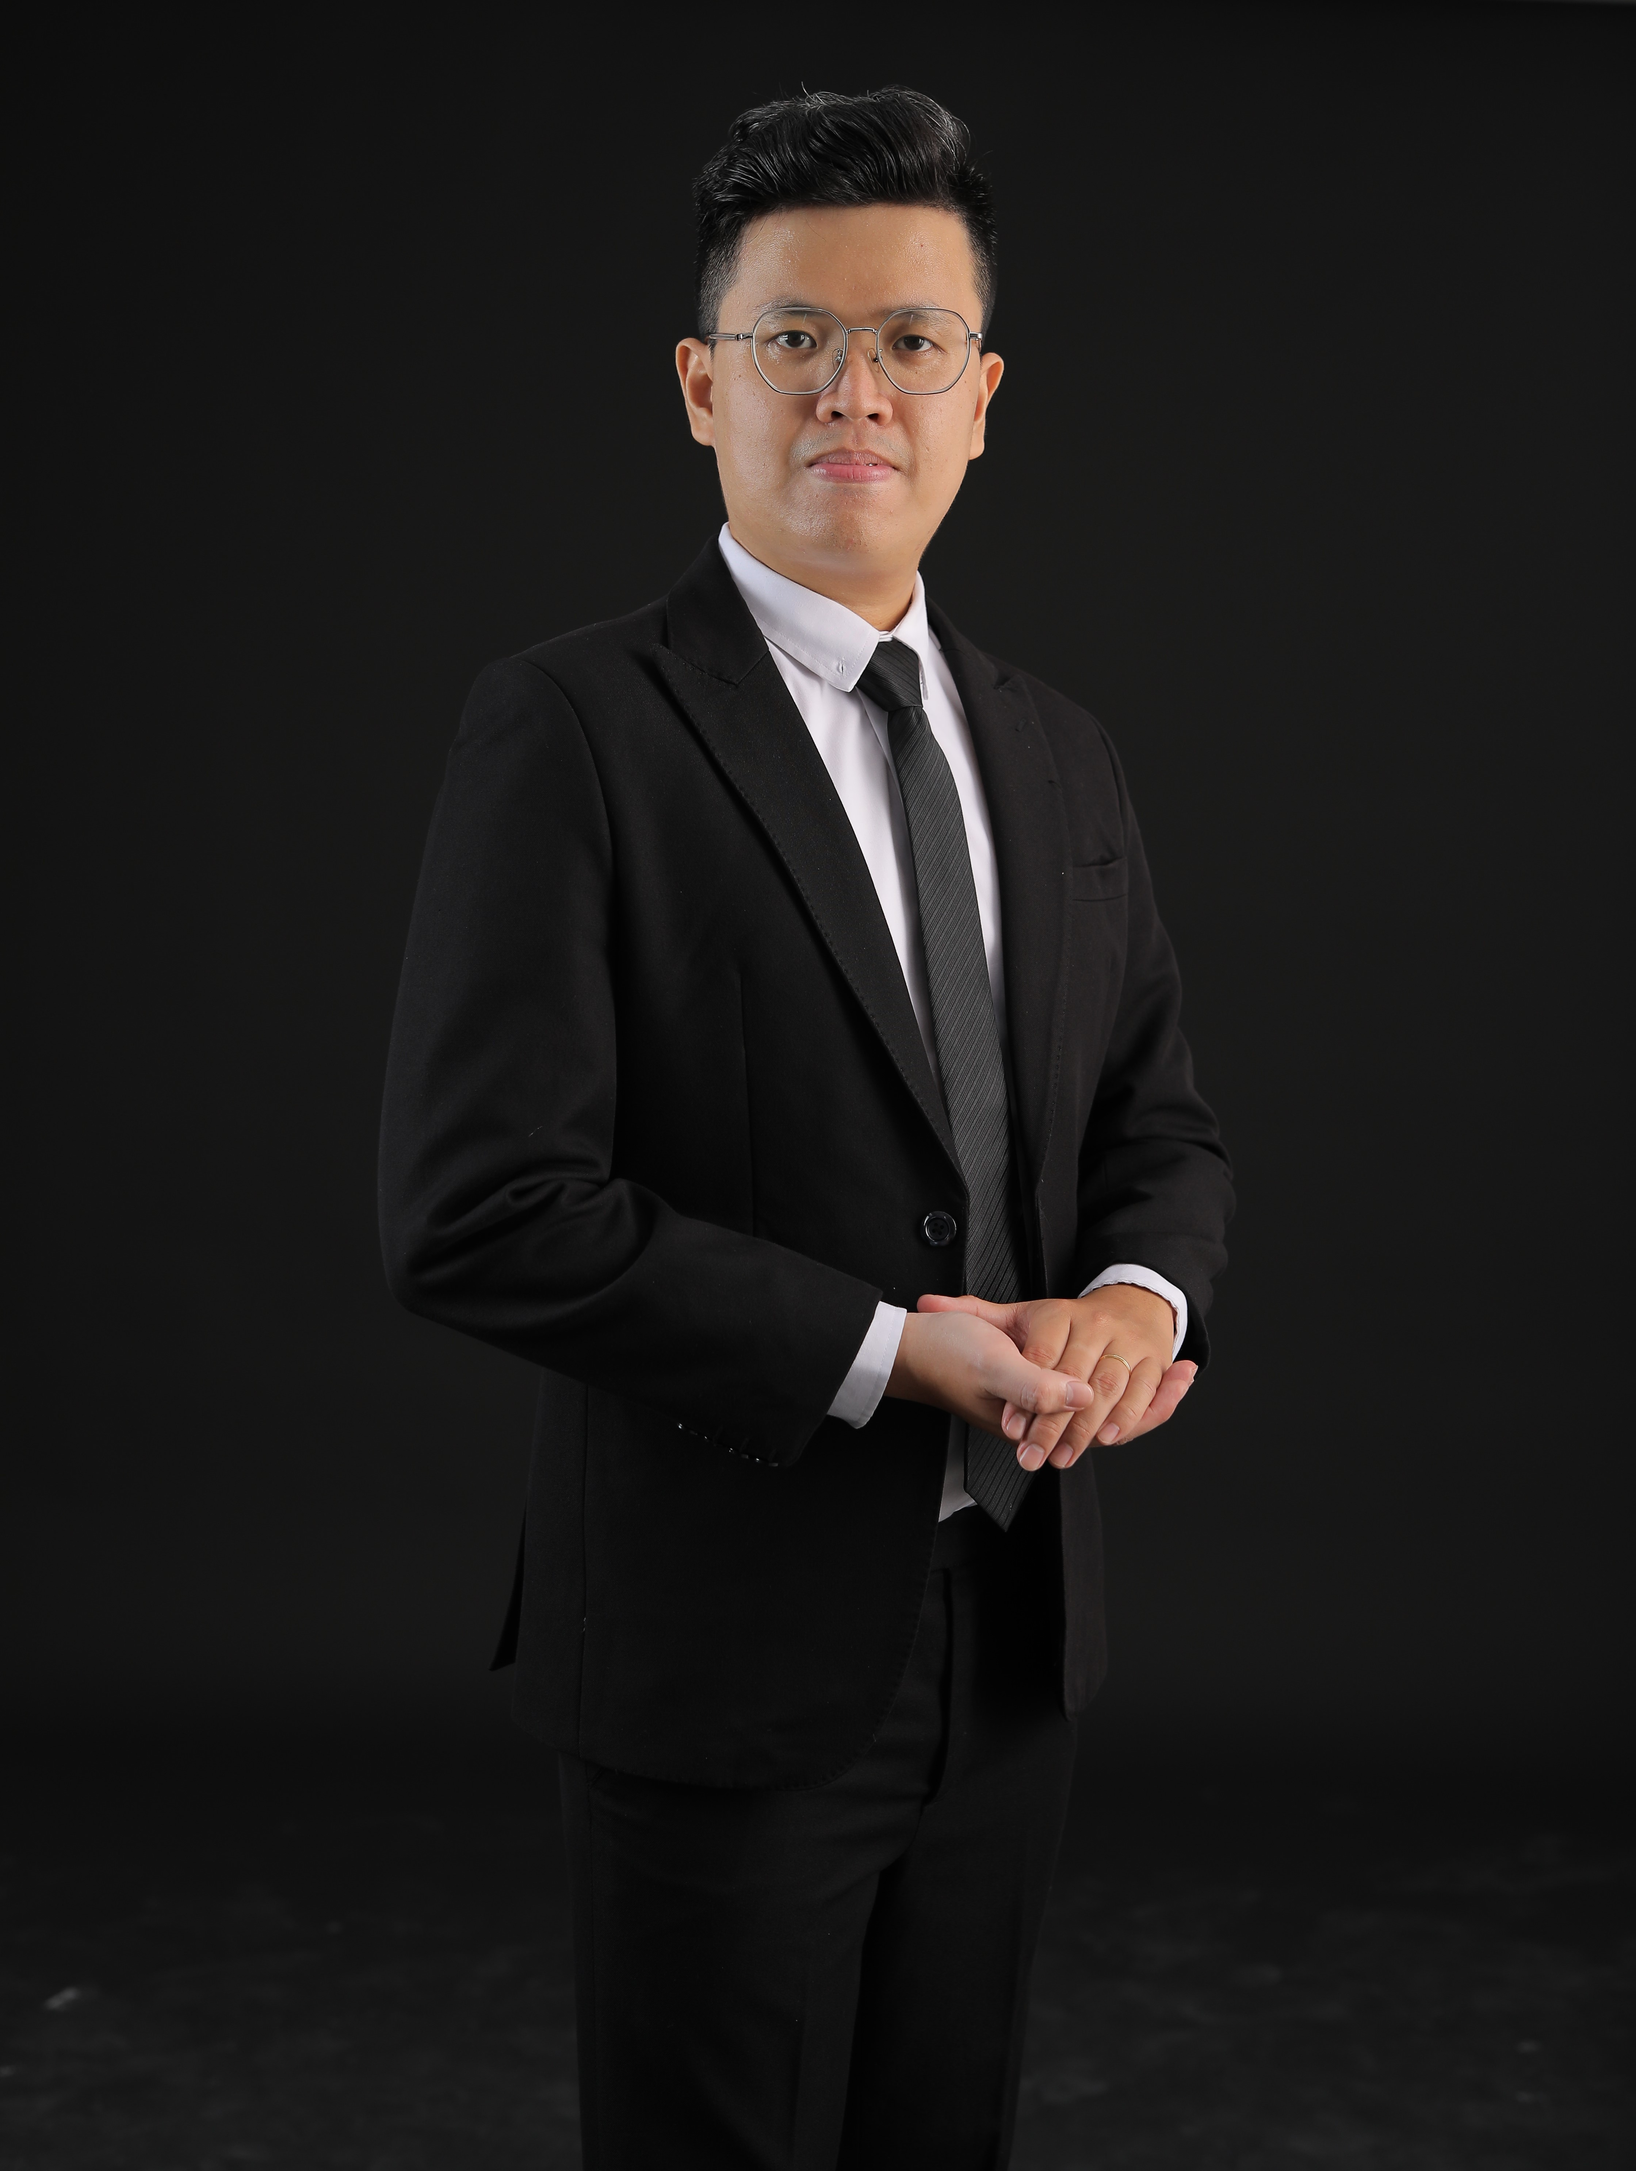
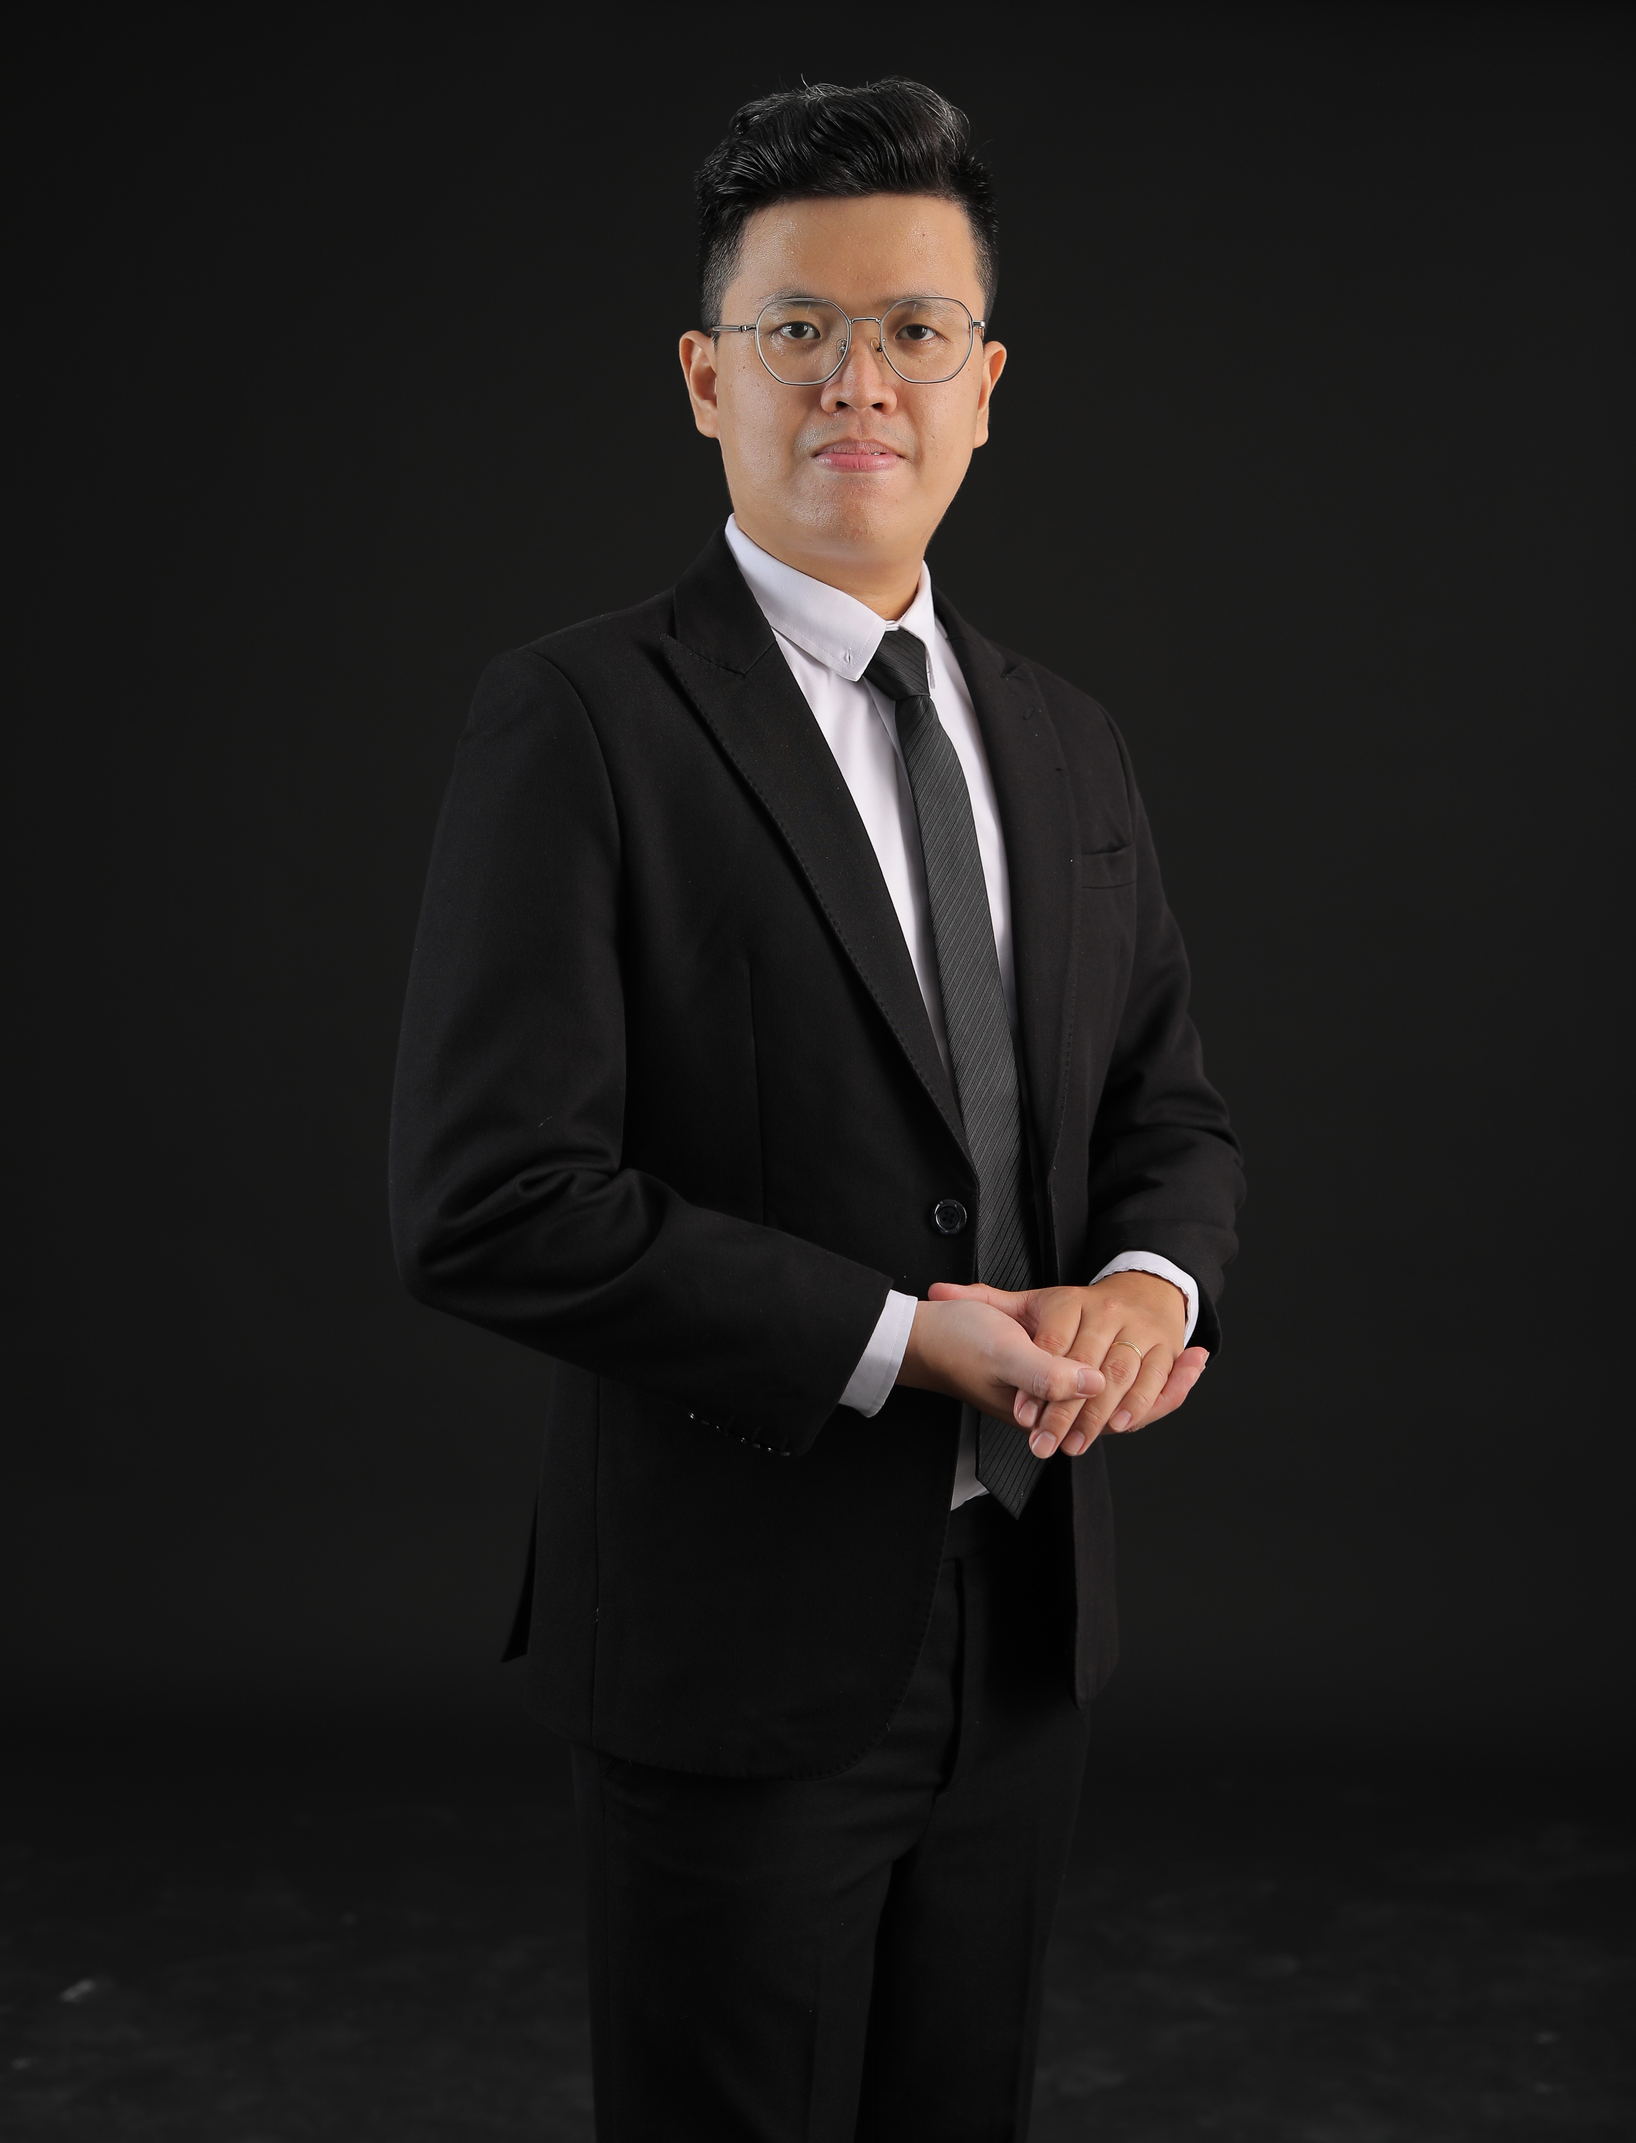
3.1: Our Story - DONE (100%) & 4. Reception - DONE (100%)

Changed region(s): [[0.4062, 0.0312, 0.75, 0.7795], [0.375, 0.4677, 0.4062, 0.4989], [0.0312, 0.9042, 0.0625, 0.9354]]

diff --git a/index.html b/index.html
@@ -6,14 +6,19 @@
     <title>Wedding Page</title>
     <link rel="icon" type="image/png" href="./assets/img/green-heart.png" />
 
-    <!-- -------------------------- font  --------------------------- -->
+    <!--? -------------------------- font  --------------------------- -->
     <link rel="preconnect" href="https://fonts.googleapis.com" />
     <link rel="preconnect" href="https://fonts.gstatic.com" crossorigin />
     <link
       href="https://fonts.googleapis.com/css2?family=Great+Vibes&family=Kanit:ital,wght@0,100;0,200;0,300;0,400;0,500;0,600;0,700;0,800;0,900;1,100;1,200;1,300;1,400;1,500;1,600;1,700;1,800;1,900&display=swap"
       rel="stylesheet"
     />
-    <!-- -------------------------- font  --------------------------- -->
+    <link
+      href="https://fonts.cdnfonts.com/css/distant-stroke"
+      rel="stylesheet"
+    />
+
+    <!--? -------------------------- font  --------------------------- -->
 
     <link
       href="./assets/fonts/node_modules/@flaticon/flaticon-uicons/css/all/all.css"
@@ -64,10 +69,7 @@
                 <!-- <a class="header__nav-link" href="">Registry</a> -->
                 <a class="header__nav-link" href="">Tham dự</a>
               </li>
-              <li class="header__nav-item">
-                <!-- <a class="header__nav-link" href="">Schedule</a> -->
-                <a class="header__nav-link" href="">Lịch trình</a>
-              </li>
+
               <li class="header__nav-item">
                 <!-- <a class="header__nav-link" href="">Photo</a> -->
                 <a class="header__nav-link" href="">Photo</a>
@@ -191,7 +193,7 @@
           >
             <div class="content__introduce-groom-image">
               <img
-                src="./assets/img/introduce/652A5461.JPG"
+                src="./assets/img/introduce/652A5451.JPG"
                 alt=""
                 class="content__introduce-groom-image-img"
               />
@@ -295,14 +297,14 @@
         <!--TODO -------------------------------- Our story -------------------------------- -->
         <!-- container our story -->
         <div
-          class="content__ourStory d-flex justify-content-center break-section"
+          class="content__ourStory d-flex justify-content-center align-items-center flex-column break-section"
         >
           <!-- our story title -->
           <div
-            class="content__ourStory-title d-flex flex-column align-items-center"
+            class="content__ourStory-title d-flex flex-column align-items-center mb-5"
           >
             <div class="content__ourStory-title--text01 great-vibes-regular">
-              Huy & Sao
+              HuyVo & SaoDao
             </div>
             <div class="content__ourStory-title--text02">OUR STORY</div>
           </div>
@@ -310,31 +312,121 @@
           <!-- our story content -->
           <div class="content__ourStory-content">
             <!-- our story 01 -->
-            <div class="content__ourStory-content-first">
-              <div class="content__ourStory-content-first-info"></div>
-              <div class="content__ourStory-content-first-image"></div>
+            <div
+              class="content__ourStory-content-first d-flex justify-content-center mb-5"
+            >
+              <div class="content__ourStory-content-first-info border rounded-start">
+                <div
+                  class="content__ourStory-content-first-info--title distant-stroke"
+                >
+                  First day
+                </div>
+                <div class="content__ourStory-content-first-info--content">
+                  first knew each back in early November 12 after knowing each
+                  other through Facebook. After a couple of weeks of messaging
+                  and talking on the phone, they decided to have a date. Hai was
+                  struck by Hien's sense of humour while Hien instantly fell in
+                  love with Hai's tenderness. 27th of November 12 was the day
+                  that they began to start their love journey.
+                </div>
+
+                <div class="content__ourStory-content-first-info--ps">
+                  She came like a beautiful angel that I could not get my eyes
+                  out of her and also like a devil who instantly kill me with
+                  love
+                </div>
+              </div>
+              <div class="content__ourStory-content-first-image ">
+                <img
+                  src="./assets/img/our-story/picture-first.JPG"
+                  alt=""
+                  class="content__ourStory-content-first-image-img"
+                />
+              </div>
             </div>
 
             <!-- our story 02 -->
-            <div class="content__ourStory-content-second">
-              <div class="content__ourStory-content-second-image"></div>
-              <div class="content__ourStory-content-second-info"></div>
+            <div
+              class="content__ourStory-content-second d-flex justify-content-center mb-5"
+            >
+              <div class="content__ourStory-content-second-image">
+                <img
+                  src="./assets/img/our-story/picture-second.JPG"
+                  alt="img"
+                  class="content__ourStory-content-second-image-img"
+                />
+              </div>
+              <div class="content__ourStory-content-second-info border rounded-end">
+                <div
+                  class="content__ourStory-content-second-info--title distant-stroke"
+                >
+                  Three years later
+                </div>
+                <div class="content__ourStory-content-second-info--content">
+                  A year after, they were continuing their love journey by creating and sharing beautiful memories with each other.
+                </div>
+
+                <div class="content__ourStory-content-first-info--ps">
+                  Even if we've had so many smiles and frowns, twists and turns, and ups and downs in the first year of relationship, I can say we were strongly bonded and getting to understand each other more
+                </div>
+              </div>
             </div>
 
             <!-- our story 03 -->
-            <div class="content__ourStory-content-final">
-              <div class="content__ourStory-content-final-info"></div>
-              <div class="content__ourStory-content-final-image"></div>
+            <div
+              class="content__ourStory-content-final d-flex justify-content-center mb-5"
+            >
+              <div class="content__ourStory-content-final-info border rounded-start">
+                <div
+                  class="content__ourStory-content-final-info--title distant-stroke"
+                >
+                  Finally
+                </div>
+                <div class="content__ourStory-content-final-info--content">
+                  20th of October, 2024 was their 4-year anniversary and also a 'happy ending' day for both of them. Hien had decided to surprise Hai with a secret proposal. Of course, Hai said 'Yes' to Hien, and the proposal was really successful with precious help from their close friends and family members. ♥
+                </div>
+
+                <div class="content__ourStory-content-final-info--ps">
+                  She came like a beautiful angel that I could not get my eyes
+                  out of her and also like a devil who instantly kill me with
+                  love
+                </div>
+              </div>
+              <div class="content__ourStory-content-final-image">
+                <img
+                  src="./assets/img/our-story/652A4919.JPG"
+                  alt=""
+                  class="content__ourStory-content-final-image-img"
+                />
+              </div>
+            </div>
+
+        </div>
+
+        <!-- TODO ------------------------------ Reception ------------------------------ -->
+        <div class="content__reception mt-5  d-flex justify-content-center flex-column align-items-center w-100 ">
+          <div class="content__reception-title">
+            <div class="content__reception-title--text content__reception--text kanit-400">Trân trọng kính mời</div>
+          </div>
+          <div class="content__reception-time">
+            <div class="content__reception-time--text content__reception--text kanit-300">Vào lúc 11 giờ 00, Chủ Nhật</div>
+          </div>
+          <div class="content__reception-date">
+            <div class="content__reception-date--text content__reception--text kanit-500">20.10.2024</div>
+          </div>
+          <div class="content__reception-address">
+            <div class="content__reception-address--text content__reception--text kanit-300">
+              628 Phạm Văn Thuận, Tam Hiệp, Thành phố Biên Hòa, Đồng Nai
             </div>
           </div>
         </div>
 
-        <!-- Reception -->
-        <div class="content__reception">
-          <div class="content__reception-title"></div>
-          <div class="content__reception-content"></div>
-          <div class="content__reception-direction"></div>
-          <div class="content__reception-image"></div>
+        <!-- TODO -------------------------------- Event -------------------------------- -->
+        <div class="content__event">
+          <div class="content__event-title"></div>
+          <div class="content__event-time"></div>
+          <div class="content__event-date"></div>
+          <div class="content__event-address"></div>
         </div>
 
         <!-- Registry -->
@@ -345,11 +437,7 @@
           <div class="content__registry-confirm"></div>
         </div>
 
-        <!-- Schedule -->
-        <div class="content__schedule">
-          <div class="content__schedule-title"></div>
-          <div class="content__schedule-content"></div>
-        </div>
+
 
         <!-- Photo -->
         <div class="content__photo break-section">

diff --git a/assets/css/style.css b/assets/css/style.css
@@ -22,6 +22,10 @@
   font-weight: 300;
 }
 
+.distant-stroke {
+  font-family: "Distant Stroke", sans-serif;
+}
+
 /*? --------------------------------- COMMON --------------------------------- */
 .break-section {
   margin-top: 10rem !important;
@@ -257,7 +261,7 @@
 
 .content__ourStory-title--text01 {
   font-size: 3rem;
-  letter-spacing: 8px;
+  letter-spacing: 5px;
 }
 
 .content__ourStory-title--text02 {
@@ -266,31 +270,122 @@
 .content__ourStory-content {
 }
 
+/* first */
 .content__ourStory-content-first {
 }
 
 .content__ourStory-content-first-info {
+  width: 40%;
+  padding: 20px 50px;
+  background-color: var(--primary-color-4-op);
+}
+
+.content__ourStory-content-first-info--title {
+  font-size: 5rem;
 }
 
 .content__ourStory-content-first-image {
 }
 
+.content__ourStory-content-first-image-img {
+  height: 70vh;
+}
+
+/* second */
 .content__ourStory-content-second {
 }
 
 .content__ourStory-content-second-image {
 }
 
-.content__ourStory-content-second-info {
+.content__ourStory-content-second-image-img {
+  height: 70vh;
 }
 
+.content__ourStory-content-second-info {
+  width: 40%;
+  padding: 20px 50px;
+  background-color: var(--primary-color-4-op);
+}
+
+.content__ourStory-content-second-info--title {
+  font-size: 5rem;
+}
+
+/* final */
 .content__ourStory-content-final {
 }
 
 .content__ourStory-content-final-info {
+  width: 40%;
+  padding: 20px 50px;
+  background-color: var(--primary-color-4-op);
+}
+
+.content__ourStory-content-final-info--title {
+  font-size: 5rem;
 }
 
 .content__ourStory-content-final-image {
+}
+
+.content__ourStory-content-final-image-img {
+  height: 70vh;
+}
+
+/*TODO ---------------------------------- Reception --------------------------------- */
+
+.content__reception {
+  background-color: var(--primary-color-3);
+  padding: 110px;
+}
+
+.content__reception--text {
+  color: var(--primary-color-4);
+}
+
+.content__reception-title {
+  margin-bottom: 70px;
+}
+
+.content__reception-title--text {
+  font-size: 1.8rem;
+  position: relative;
+}
+
+.content__reception-title--text::after {
+  content: "";
+  position: absolute;
+  color: var(--primary-color-4);
+  border-width: 0.5px 240px;
+  border-style: solid;
+  top: 85px;
+  right: -111px;
+}
+
+.content__reception-time {
+}
+
+.content__reception-time--text {
+  font-size: 1.5rem;
+  text-transform: uppercase;
+}
+
+.content__reception-date {
+}
+
+.content__reception-date--text {
+  font-size: 4rem;
+  letter-spacing: 5px;
+  margin: 20px;
+}
+
+.content__reception-address {
+}
+
+.content__reception-address--text {
+  font-size: 1.2rem;
+  text-transform: uppercase;
 }
 
 /** ---------------------------------- MODAL --------------------------------- */

diff --git a/assets/css/base.css b/assets/css/base.css
@@ -14,6 +14,13 @@
   --primary-color-3: #392e38;
   --primary-color-4: #c2c2c4;
   --primary-color-5: #a09594;
+
+  /* tone color opacity */
+  --primary-color-1-op: rgb(121, 108, 107, 0.5);
+  --primary-color-2-op: rgb(86, 74, 80, 0.5);
+  --primary-color-3-op: rgb(57, 46, 56, 0.5);
+  --primary-color-4-op: rgb(194, 194, 196, 0.5);
+  --primary-color-5-op: rgb(160, 149, 148, 0.5);
 }
 
 html {
